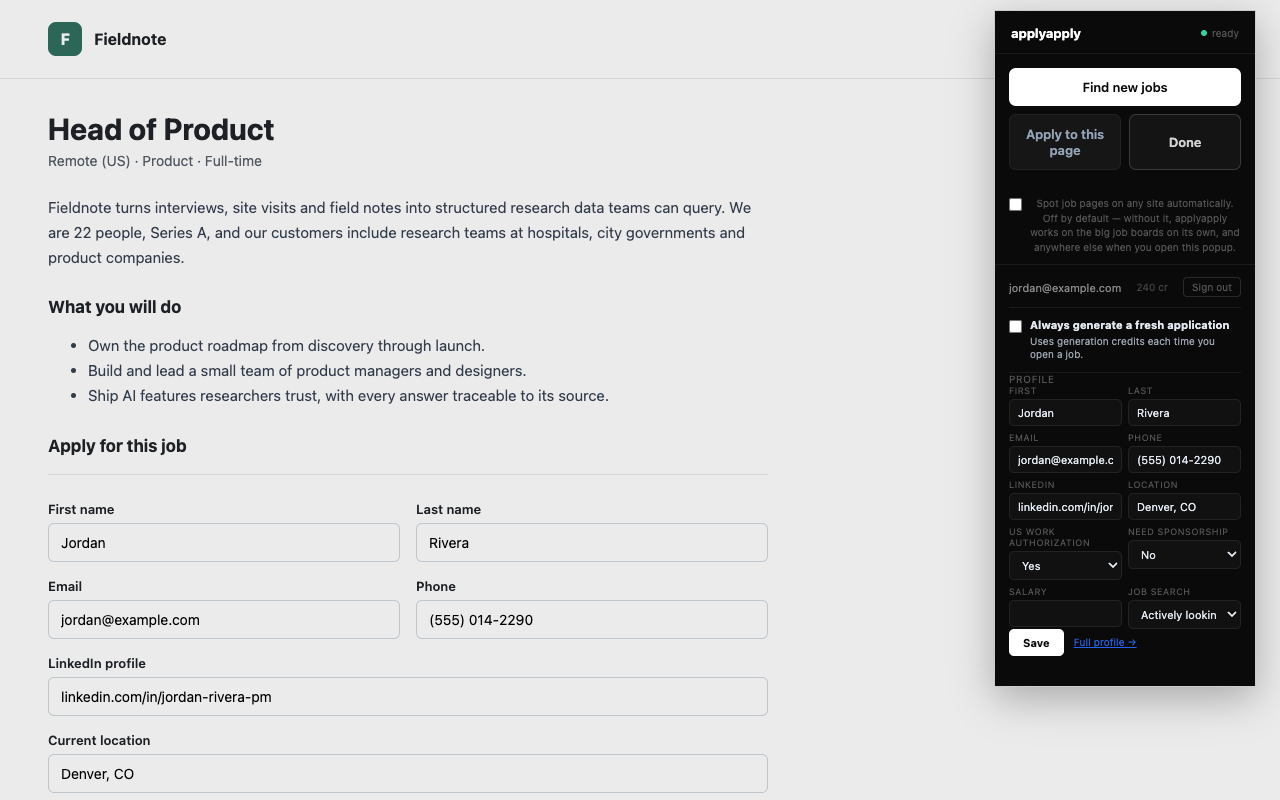
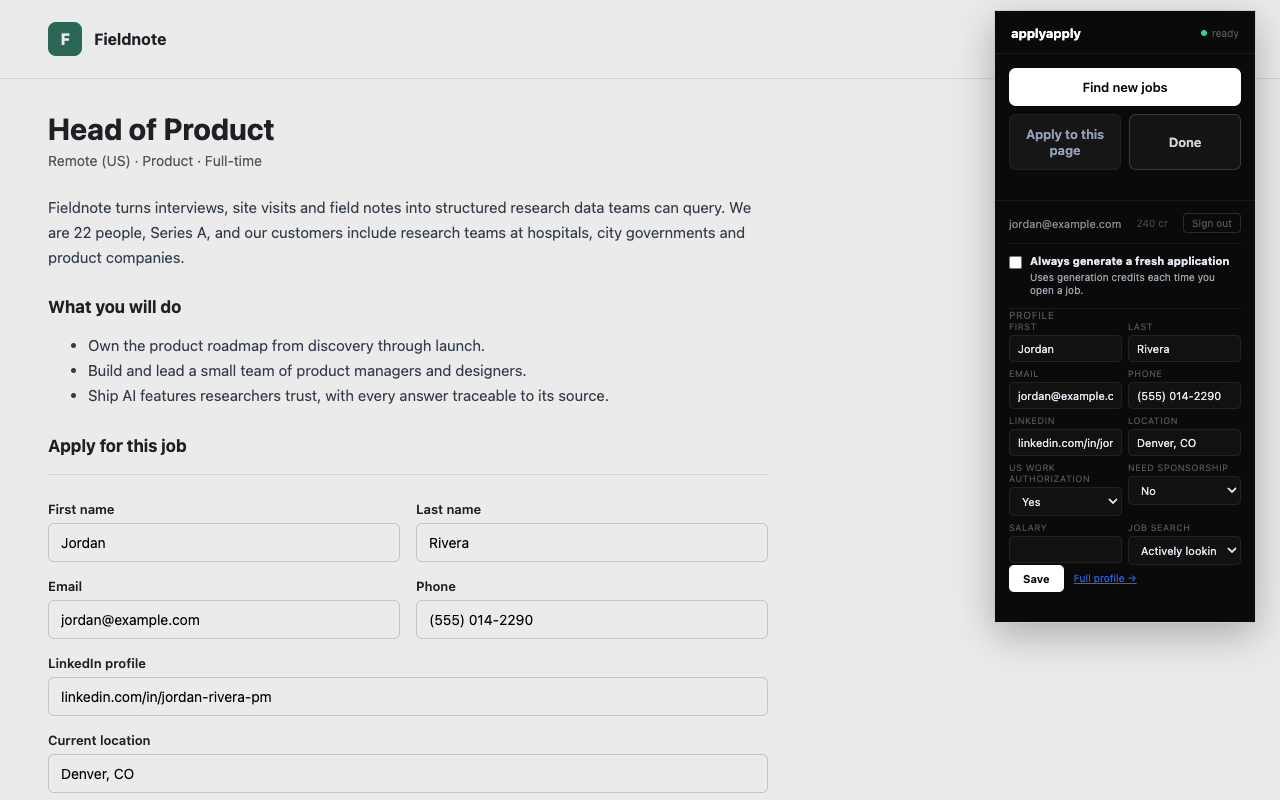
Add Terms of Service, correct the privacy policy, drop unused permission
- /terms is new; privacy and terms share one page shell, and the site
  footer, legal pages and sign-in form link to both.
- Privacy policy now lists TypeSafe (listing and resume fit scoring,
  enabled in production) and says voice dictation uses Chrome's speech
  recognition.
- The optional all-sites host permission and its popup checkbox are
  gone: the extension stopped auto-detecting pages, so the checkbox
  promised behavior that no longer exists, and the Store rejects
  permissions an extension does not need.

Changed region(s): [[0.75, 0.25, 1.0, 0.9062]]

diff --git a/server/server.js b/server/server.js
@@ -48,7 +48,7 @@ for (const method of ['get','post','put','patch','delete']) {
     (req, res, next) => { try { Promise.resolve(handler(req,res,next)).catch(next); } catch (e) { next(e); } }));
 }
 const PORT = process.env.PORT || 5000;
-const VERSION = '0.28.2';
+const VERSION = '0.29.0';
 const IS_PRODUCTION = process.env.NODE_ENV === 'production';
 const APP_ORIGIN = process.env.APP_ORIGIN || 'http://localhost:5000';
 const ALLOWED_WEB_ORIGINS = new Set(
@@ -192,16 +192,25 @@ code{background:#111;border:1px solid #1e1e1e;padding:2px 7px;font-size:13px;fon
 </body></html>`);
 });
 
-app.get('/privacy', (req, res) => {
+// Privacy and Terms share one shell so the two legal pages cannot drift apart.
+const LEGAL_STYLE = `<style>
+*{box-sizing:border-box}body{margin:0;background:#000;color:#f5f5f5;font-family:-apple-system,BlinkMacSystemFont,'Segoe UI',sans-serif;line-height:1.65}
+a{color:#fff}.topbar{padding:22px 32px;border-bottom:1px solid #171717;display:flex;justify-content:space-between}.logo{font-weight:800;text-decoration:none}.nav{display:flex;gap:18px;font-size:13px}.nav a{text-decoration:none;color:#aaa}.wrap{max-width:760px;margin:0 auto;padding:64px 24px 110px}h1{font-size:34px;line-height:1.1;margin:0 0 12px}h2{font-size:18px;margin:38px 0 8px}p,li{font-size:14px;color:#c8c8c8}ul{padding-left:22px}.updated{font-size:12px;color:#888;margin-bottom:38px}.limited{border:1px solid #2b2b2b;padding:16px 18px;margin:24px 0;color:#ddd;font-size:14px}.foot{border-top:1px solid #171717;padding-top:24px;margin-top:52px;font-size:13px;color:#888}
+</style>`;
+function legalPage(res, { title, desc, path: urlPath, body }) {
   res.setHeader('Cache-Control', 'public, max-age=3600');
   res.send(`<!DOCTYPE html><html><head>
 <meta charset="utf-8"><meta name="viewport" content="width=device-width,initial-scale=1">
-${metaHead({title:'Privacy policy — applyapply', desc:'How applyapply collects, uses and protects profile, resume and job-application data.', path:'/privacy'})}
-<style>
-*{box-sizing:border-box}body{margin:0;background:#000;color:#f5f5f5;font-family:-apple-system,BlinkMacSystemFont,'Segoe UI',sans-serif;line-height:1.65}
-a{color:#fff}.topbar{padding:22px 32px;border-bottom:1px solid #171717;display:flex;justify-content:space-between}.logo{font-weight:800;text-decoration:none}.nav{display:flex;gap:18px;font-size:13px}.nav a{text-decoration:none;color:#aaa}.wrap{max-width:760px;margin:0 auto;padding:64px 24px 110px}h1{font-size:34px;line-height:1.1;margin:0 0 12px}h2{font-size:18px;margin:38px 0 8px}p,li{font-size:14px;color:#c8c8c8}ul{padding-left:22px}.updated{font-size:12px;color:#888;margin-bottom:38px}.limited{border:1px solid #2b2b2b;padding:16px 18px;margin:24px 0;color:#ddd;font-size:14px}.foot{border-top:1px solid #171717;padding-top:24px;margin-top:52px;font-size:13px;color:#888}
-</style></head><body><div class="topbar"><a class="logo" href="/">applyapply</a><div class="nav"><a href="/extension">Extension</a><a href="/buy">Credits</a></div></div>
-<main class="wrap"><h1>Privacy policy</h1><div class="updated">Last updated September 21, 2026</div>
+${metaHead({ title, desc, path: urlPath })}
+${LEGAL_STYLE}</head><body><div class="topbar"><a class="logo" href="/">applyapply</a><div class="nav"><a href="/extension">Extension</a><a href="/buy">Credits</a></div></div>
+<main class="wrap">${body}<div class="foot"><a href="/">applyapply.xyz</a> · <a href="/privacy">Privacy</a> · <a href="/terms">Terms</a> · <a href="/extension">Extension</a> · <a href="/login">Sign in</a> · <a href="mailto:wittman.c@gmail.com">Support</a></div></main></body></html>`);
+}
+
+app.get('/privacy', (req, res) => legalPage(res, {
+  title: 'Privacy policy — applyapply',
+  desc: 'How applyapply collects, uses and protects profile, resume and job-application data.',
+  path: '/privacy',
+  body: `<h1>Privacy policy</h1><div class="updated">Last updated September 21, 2026</div>
 <p>applyapply helps people find jobs and prepare applications. This policy explains what the applyapply website, server, and browser extension collect and how that information is used.</p>
 <div class="limited"><b>Chrome Web Store Limited Use disclosure:</b> applyapply uses data received from the extension only to provide and improve its single purpose: helping a user review and complete job applications. We do not sell user data, use it for advertising, or transfer it for unrelated purposes.</div>
 <h2>Information we handle</h2>
@@ -209,17 +218,48 @@ a{color:#fff}.topbar{padding:22px 32px;border-bottom:1px solid #171717;display:f
 <h2>How we use information</h2>
 <p>We use this information only to authenticate you, find and organize roles, generate tailored resumes and application materials, fill forms at your direction, save your work, charge credits, prevent abuse, troubleshoot failures, and improve reliability. Your profile, resume, answers, screenshots, and job materials are not sold, used for advertising, or used to train a general-purpose model. We do not submit an application without an action from you.</p>
 <h2>Service providers</h2>
-<p>We share only the data needed to provide the requested feature with service providers: Railway and Postgres for hosting and storage; Anthropic or OpenRouter for language-model generation; Hyperbrowser for browser-based sourcing; Stripe for payments; and Resend for transactional email. These providers process data on our behalf under their own terms and security practices.</p>
+<p>We share only the data needed to provide the requested feature with service providers: Railway and Postgres for hosting and storage; Anthropic or OpenRouter for language-model generation; TypeSafe for scoring how well a listing or tailored resume fits your target roles and for screening listings for hidden instructions; Hyperbrowser for browser-based sourcing; Stripe for payments; and Resend for transactional email. These providers process data on our behalf under their own terms and security practices.</p>
 <h2>What we do not do</h2>
 <p>We do not sell personal information, use it for targeted advertising, or allow people to read user application data except when you explicitly provide it for support or when needed for security, legal compliance, or abuse investigation. We do not use job-page data to build unrelated advertising profiles.</p>
 <h2>Retention and deletion</h2>
 <p>Your profile, resume, generated kits, pipeline, and saved answers remain in your account until you delete them. In <a href="/setup">Profile &amp; settings</a>, you can download an account export or permanently delete the account and its stored profile, resume, answers, jobs, kits, schedule, and operational records. Shared source-cache data contains public job listings, not your profile. Payment and fraud records may be retained longer where required for accounting, security, or legal obligations. You can also email <a href="mailto:wittman.c@gmail.com">wittman.c@gmail.com</a> from the account email address.</p>
 <h2>Security and extension behavior</h2>
-<p>Data is transmitted over HTTPS, sessions are authenticated with expiring tokens, production access is restricted, and the extension has no access to pages until you click its toolbar icon. The extension sends page data only when you request a fill, answer, resume, or application action. We do not sell user data, use it for targeted advertising, or transfer it for unrelated purposes. No internet service can guarantee absolute security, so please do not upload information you are not comfortable processing through the service providers described above.</p>
+<p>Data is transmitted over HTTPS, sessions are authenticated with expiring tokens, production access is restricted, and the extension has no access to pages until you click its toolbar icon. The extension sends page data only when you request a fill, answer, resume, or application action. If you use voice dictation, the extension uses Chrome's built-in speech recognition, which Google processes under its own terms; applyapply receives only the resulting text. We do not sell user data, use it for targeted advertising, or transfer it for unrelated purposes. No internet service can guarantee absolute security, so please do not upload information you are not comfortable processing through the service providers described above.</p>
+<h2>Terms</h2>
+<p>Use of applyapply is also governed by our <a href="/terms">Terms of Service</a>.</p>
 <h2>Changes and contact</h2>
 <p>We may update this policy as the product changes. We will update the date above and, when appropriate, notify account holders. Questions or privacy requests can be sent to <a href="mailto:wittman.c@gmail.com">wittman.c@gmail.com</a>.</p>
-<div class="foot"><a href="/">applyapply.xyz</a> · <a href="/extension">Extension</a> · <a href="/login">Sign in</a> · <a href="mailto:wittman.c@gmail.com">Support</a></div></main></body></html>`);
-});
+`,
+}));
+
+app.get('/terms', (req, res) => legalPage(res, {
+  title: 'Terms of Service — applyapply',
+  desc: 'The terms for using the applyapply website, browser extension and credits.',
+  path: '/terms',
+  body: `<h1>Terms of Service</h1><div class="updated">Last updated September 21, 2026</div>
+<p>These terms cover your use of the applyapply website, server, and browser extension (together, "applyapply"). By creating an account or using applyapply, you agree to them. If you do not agree, do not use the service.</p>
+<h2>Who can use applyapply</h2>
+<p>You must be at least 18 years old, or the age of majority where you live, and able to agree to these terms. You sign in with a link sent to your email address, so keep access to that inbox secure. You are responsible for activity on your account.</p>
+<h2>What applyapply does and does not do</h2>
+<p>applyapply finds job listings, drafts tailored resumes, cover notes and answers from the information you provide, and fills application forms when you ask it to. It never submits an application for you. Generated material can be wrong, incomplete or out of date, so read and correct everything before you submit it. You are responsible for what you send to employers, including making sure it is truthful. We do not guarantee interviews, offers or any other result, and we are not a recruiter or an employment agency.</p>
+<h2>Your content</h2>
+<p>You own the profile, resume, answers and other material you provide, and the materials generated for you. You give us permission to store and process that content, including through the service providers listed in our <a href="/privacy">Privacy policy</a>, only as needed to run applyapply for you. Only provide information you have the right to share.</p>
+<h2>Acceptable use</h2>
+<p>Do not use applyapply to break the law, to misrepresent your identity or qualifications, to send bulk or automated applications, to interfere with the service or with job sites, to get around usage limits or credit charges, or to resell or copy the service. You are responsible for following the terms of the job sites and application systems you use applyapply with.</p>
+<h2>Credits and payments</h2>
+<p>Some features use credits. New accounts may receive free starter credits. Purchased credits are a one-time, prepaid purchase with no subscription; they do not expire, have no cash value, and cannot be transferred. Stripe processes payments. If an operation fails, the credits it reserved are returned automatically. Purchased credits are not refundable except where the law requires it; if something went wrong with a purchase, email us and we will look into it. We may change credit prices for future purchases and operations, but not the balance you already hold.</p>
+<h2>Third-party services</h2>
+<p>applyapply links to and works on job sites and application systems we do not control. Their content, availability and terms are their own.</p>
+<h2>Suspension and deletion</h2>
+<p>You can delete your account at any time in <a href="/setup">Profile &amp; settings</a>. We may suspend or close accounts that break these terms or put the service or other users at risk. Unused free credits end when an account is closed.</p>
+<h2>Disclaimers</h2>
+<p>applyapply is provided "as is" and "as available". To the fullest extent the law allows, we disclaim all warranties, express or implied, including merchantability, fitness for a particular purpose and non-infringement. We do not promise the service will be uninterrupted or error-free.</p>
+<h2>Limitation of liability</h2>
+<p>To the fullest extent the law allows, applyapply is not liable for indirect, incidental, special, consequential or punitive damages, or for lost profits, lost opportunities or lost data. Our total liability for any claim relating to the service is limited to the amount you paid us in the 12 months before the claim arose.</p>
+<h2>Changes and contact</h2>
+<p>We may update these terms as the product changes. We will update the date above and, for material changes, notify account holders before they take effect. Continuing to use applyapply after a change means you accept the updated terms. Questions can be sent to <a href="mailto:wittman.c@gmail.com">wittman.c@gmail.com</a>.</p>
+`,
+}));
 
 app.get('/robots.txt', (req, res) => {
   const origin = APP_ORIGIN.replace(/\/$/, '');
@@ -852,6 +892,7 @@ setTimeout(function() { var b = document.querySelector('.drole'); startDemo('pro
     <a href="/setup">Setup</a>
     <a href="/pipeline">Pipeline</a>
     <a href="/privacy">Privacy</a>
+    <a href="/terms">Terms</a>
   </div>
 </footer>
 
@@ -910,6 +951,7 @@ input::placeholder{color:#a8a8a8}
   <input type="email" id="email" placeholder="you@example.com" autofocus/>
   <button class="btn" id="btn" onclick="send()">Send link</button>
   <div id="msg"></div>
+  <p style="font-size:12px;color:#e5e5e5;margin-top:14px">By continuing you agree to the <a href="/terms" style="color:#fff">Terms</a> and <a href="/privacy" style="color:#fff">Privacy policy</a>.</p>
 </div>
 <script>
 const EXT_ID=${scriptJSON(extId)};

diff --git a/extension/popup.js b/extension/popup.js
@@ -83,28 +83,7 @@ chrome.storage.sync.get(['apiKey', 'profile', 'userEmail', 'alwaysRegenerate'], 
 
   document.getElementById('btn-audit').href = `${SERVER}/sourcing`;
   checkHealth();
-  initAutoDetect();
 });
-
-// Reading every page you visit is not something to take by default, so the
-// broad host permission is optional and asked for here, on a click, with the
-// trade-off stated. Chrome only grants it from a user gesture.
-const ANY_SITE = { origins: ['*://*/*'] };
-
-function initAutoDetect() {
-  const row = document.getElementById('auto-row');
-  const box = document.getElementById('auto-detect');
-  if (!row || !box || !chrome.permissions) return;
-  row.style.display = '';
-  chrome.permissions.contains(ANY_SITE, granted => { box.checked = !!granted; });
-  box.addEventListener('change', () => {
-    if (box.checked) {
-      chrome.permissions.request(ANY_SITE, granted => { box.checked = !!granted; });
-    } else {
-      chrome.permissions.remove(ANY_SITE, removed => { if (removed) box.checked = false; });
-    }
-  });
-}
 
 // ── Server health ─────────────────────────────────────────────────────────────
 

diff --git a/extension/popup.html b/extension/popup.html
@@ -17,12 +17,6 @@
       <button id="btn-settings-toggle" class="btn secondary">Settings</button>
     </div>
     <div id="apply-note" class="note"></div>
-    <div id="auto-row" class="note" style="display:none">
-      <label style="display:flex;gap:7px;align-items:flex-start;cursor:pointer;line-height:1.45">
-        <input type="checkbox" id="auto-detect" style="margin-top:2px;flex:none">
-        <span>Spot job pages on any site automatically. Off by default &mdash; without it, applyapply works on the big job boards on its own, and anywhere else when you open this popup.</span>
-      </label>
-    </div>
   </div>
 
   <div id="settings-panel" style="display:none">

diff --git a/CHROME-WEB-STORE.md b/CHROME-WEB-STORE.md
@@ -70,7 +70,7 @@ Recommended screenshot sequence:
 2. The tailored resume panel with the download action visible.
 3. The Q&A section showing reviewable, editable answers and copy controls.
 4. A form with applyapply field controls visible, demonstrating fill-and-advance.
-5. The extension popup showing sign-in, credits, and the optional auto-detect setting.
+5. The extension popup showing sign-in, credits, and profile settings.
 
 Use real product screenshots, square corners, full bleed, and minimal overlay text. Do not show real email addresses, private resumes, API keys, or payment details.
 
@@ -83,8 +83,7 @@ Use real product screenshots, square corners, full bleed, and minimal overlay te
 | `clipboardWrite` | Supports the user-requested copy action for application answers. |
 | `scripting` | Injects the applyapply panel and form-filling behavior after the user opens it. |
 | `offscreen` | Provides optional voice transcription for an application answer after the user starts it. |
-| Named ATS host permissions | Automatically recognizes and assists supported job-board application pages. |
-| Optional `*://*/*` host permission | Enables auto-detection on other job sites only after the user explicitly grants it in the popup. Without it, the toolbar action still works through `activeTab`. |
+| Named ATS host permissions | When the user clicks the toolbar button, lets applyapply run inside application forms these platforms embed on company career sites (cross-origin iframes that activeTab does not cover), and lets the extension talk to its own server at applyapply.xyz. Nothing runs on page load. |
 
 ## Privacy answers
 
